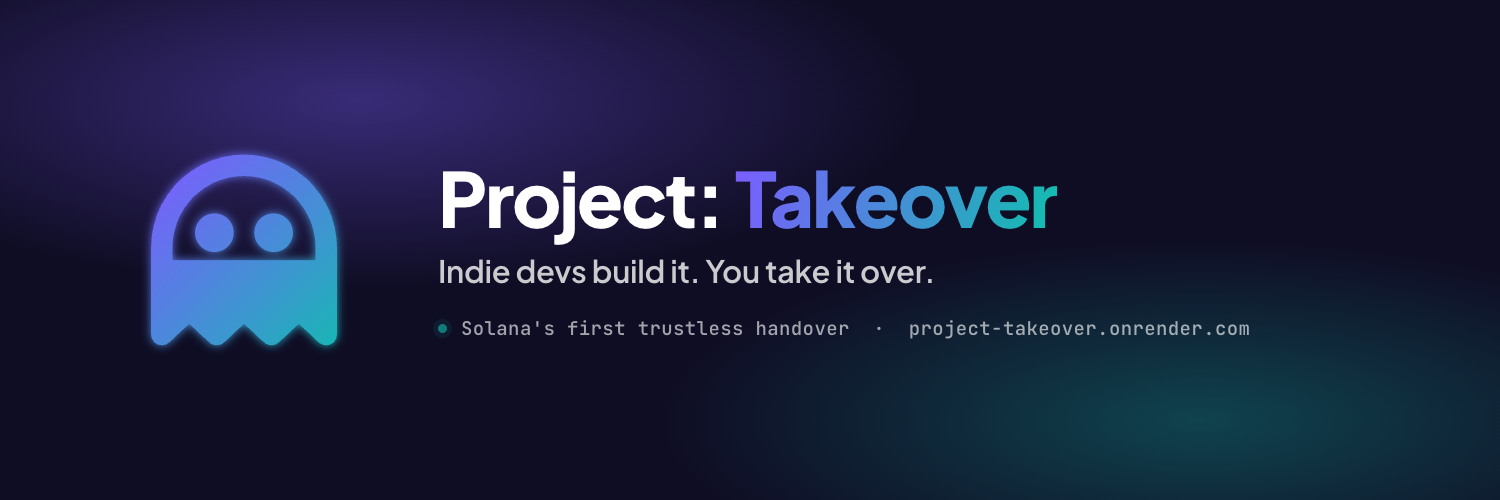
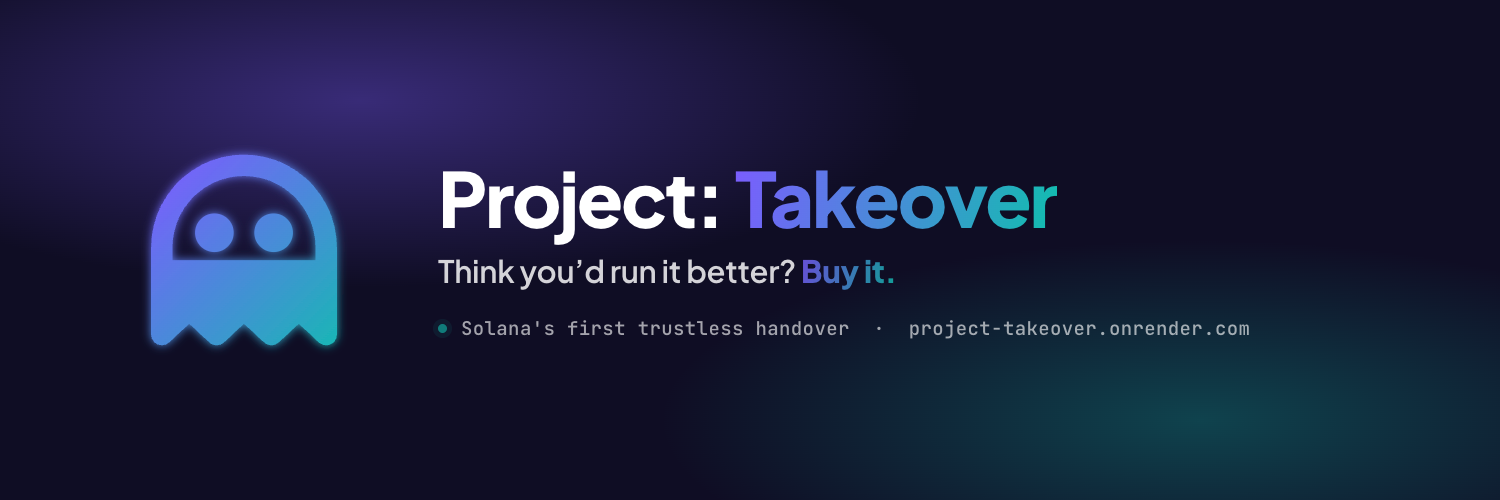
New headline: "Think you'd run it better? Buy it."
Replaces "Indie devs build it. You take it over." Every memecoin comment
section is full of people saying the dev is useless; this hands them the
button instead of arguing with them.

That headline only speaks to buyers, so the seller half of the market gets
the same shape right under the search box — "Built something? Sell it." —
as a real link to /sell rather than another line of prose. A dev landing on
the home page now finds their own door instead of reading past the buyer's.

Changed together so they cannot drift: the hero, the sub-head, the page
title and meta description, and the pump.fun banner art.

Changed region(s): [[0.276, 0.51, 0.6133, 0.57]]

diff --git a/src/app/page.tsx b/src/app/page.tsx
@@ -43,15 +43,15 @@ function Hero({ live, settled, builders, onSearch, query }: {
           </div>
 
           <h1 className="display mt-6">
-            Indie devs build it.<br className="hidden sm:block" />{" "}
+            Think you&rsquo;d run it better?<br className="hidden sm:block" />{" "}
             <span style={{ background: "linear-gradient(90deg, var(--color-brand), var(--color-teal))", WebkitBackgroundClip: "text", backgroundClip: "text", color: "transparent" }}>
-              You take it over.
+              Buy it.
             </span>
           </h1>
 
           <p className="lead mx-auto mt-5">
-            Tokens, pump.fun coins, websites and communities — built by people who actually shipped them.
-            The chain proves who owns it. Nobody holds your money but the code.
+            Memecoins, pump.fun coins, sites and communities — bought outright, not traded.
+            The chain proves who owns it. Nobody holds the money but the code.
           </p>
 
           <div className="mx-auto mt-8 flex max-w-xl flex-col gap-3 sm:flex-row">
@@ -64,6 +64,23 @@ function Hero({ live, settled, builders, onSearch, query }: {
             />
             <a href="#market"><Button className="w-full sm:w-auto !py-3.5">Browse projects</Button></a>
           </div>
+
+          {/* The headline speaks only to buyers. This is the other half of the market
+              given the same shape — question, then a two-word instruction — so a dev
+              landing here finds their own door instead of reading past the buyer's. */}
+          <Link
+            href="/sell"
+            className="group mt-5 inline-flex items-center gap-2 text-[15px] font-semibold text-muted transition-colors hover:text-ink"
+          >
+            Built something?
+            <span
+              className="underline decoration-2 underline-offset-4"
+              style={{ color: "var(--color-teal)", textDecorationColor: "color-mix(in srgb, var(--color-teal) 45%, transparent)" }}
+            >
+              Sell it.
+            </span>
+            <span aria-hidden className="transition-transform group-hover:translate-x-0.5">→</span>
+          </Link>
 
           <div className="mt-4 flex flex-wrap items-center justify-center gap-x-6 gap-y-2 text-[13px] text-muted">
             <span><strong className="text-ink">{liveCount}</strong> for sale</span>

diff --git a/src/app/layout.tsx b/src/app/layout.tsx
@@ -20,9 +20,9 @@ export const viewport = {
 };
 
 export const metadata: Metadata = {
-  title: "Project: Takeover — buy and sell what independent devs built on Solana",
+  title: "Project: Takeover — think you'd run it better? Buy it.",
   description:
-    "An escrowed marketplace for Solana projects. Token authorities, pump.fun coin ownership, whole projects and communities. The chain proves who owns it before anyone pays.",
+    "Buy Solana projects outright, not by the bag. Memecoin authorities, pump.fun coin ownership, whole sites and communities — handed over on chain, with nobody holding the money but the code. Built something? Sell it.",
 };
 export const dynamic = "force-dynamic";
 
